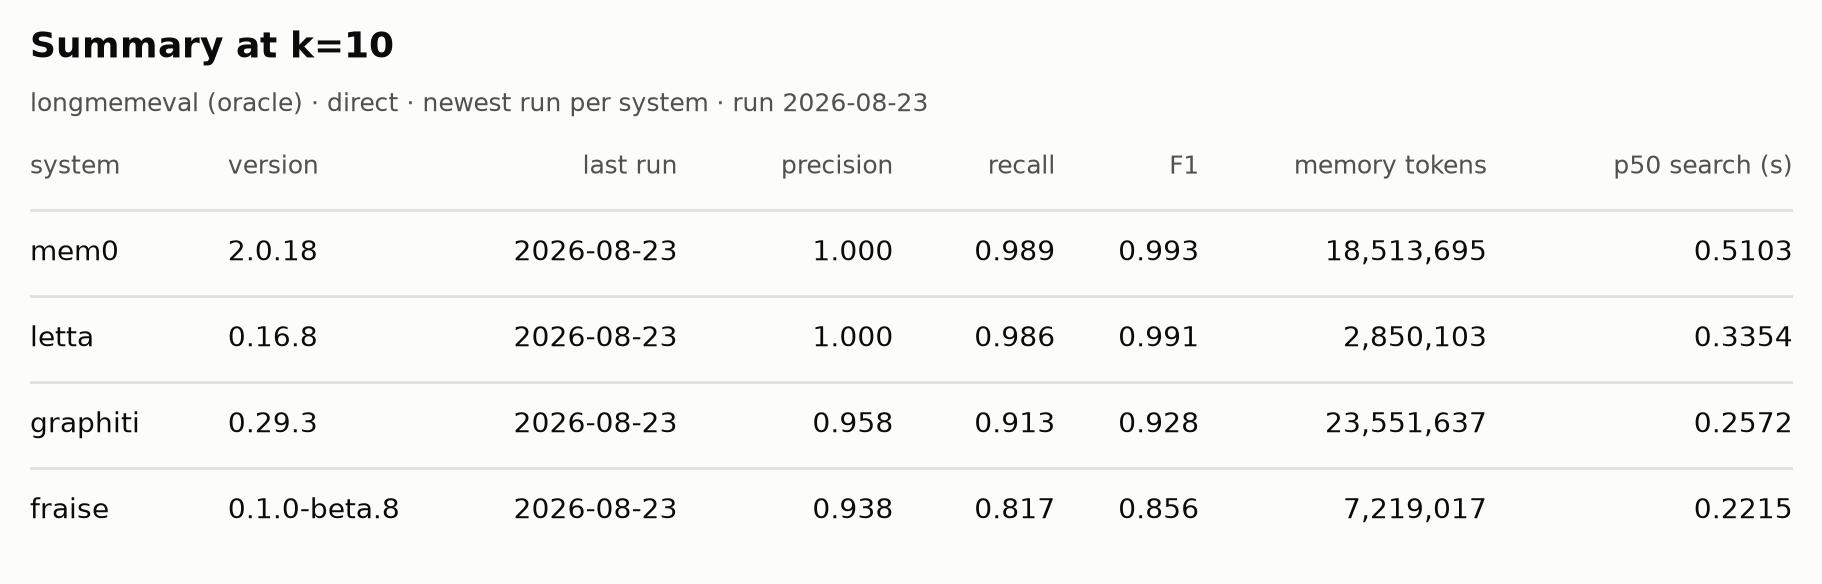
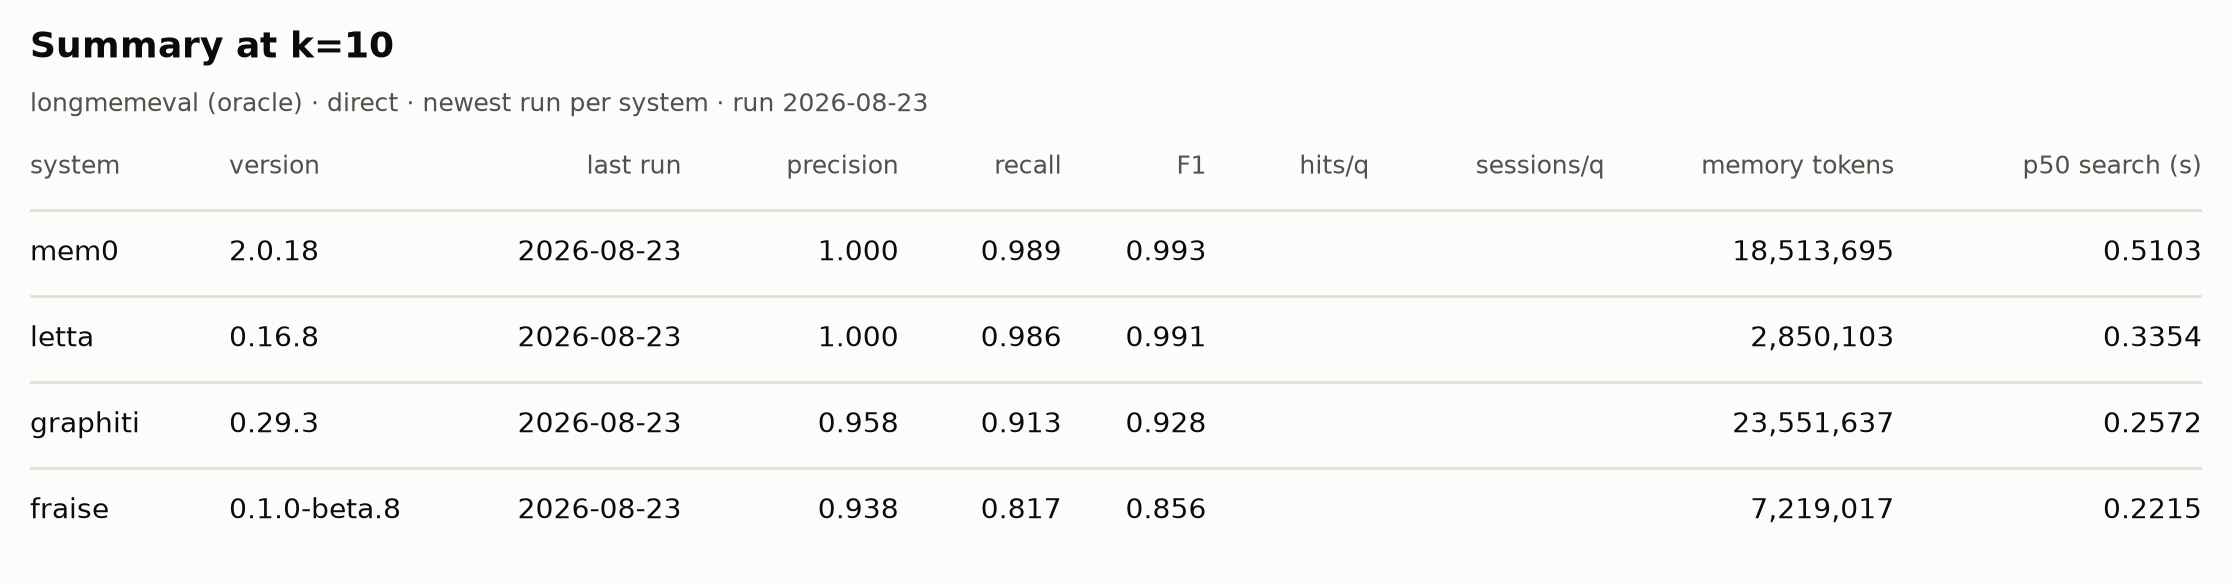
results: redraw after harness change

diff --git a/RESULTS.md b/RESULTS.md
@@ -2,7 +2,7 @@
 
 Generated by `amb report` from the runs saved under [`runs/`](runs/) — every table, chart, and line of this file. Edits here are overwritten on the next run; change the report definition in `src/amb/reporting/report.py` instead.
 
-Results from `fraise/v0.5.0` (commit `3adaae5`), run 2026-10-04.
+Results from commit `f9896cb`, run 2026-10-09.
 
 ## Every run
 
